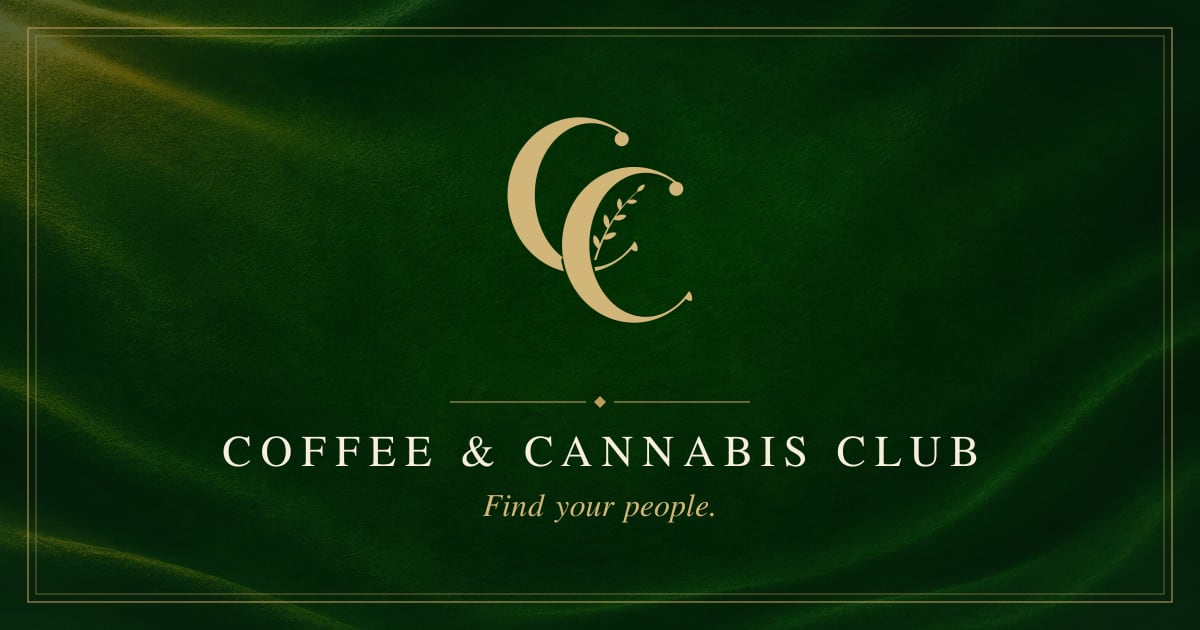
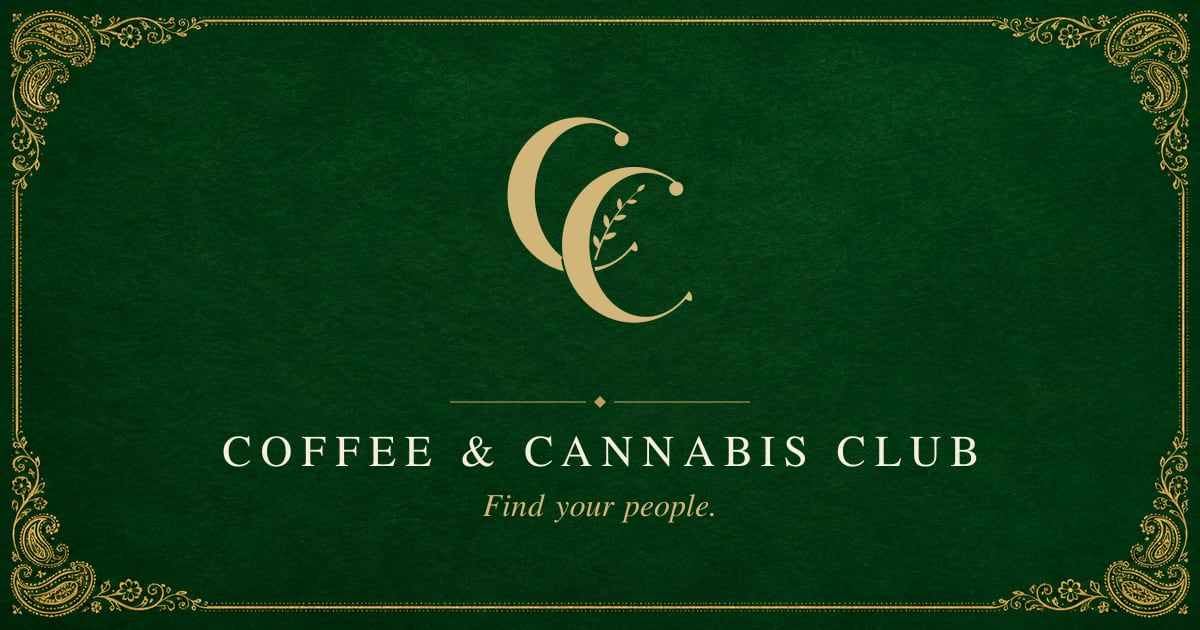
Use supplied og-share and paisley-border artwork
- og-share is now composed on the supplied paisley-cornered felt artwork
  (CC mark + tagline centered inside its frame) instead of the hero velvet.
- The supplied bandana frame is registered as paisley-border and turned into
  a gold-only alpha mask, layered behind the hero headline with a CSS fade-in.
  Site-wide paisley stays vector.
- Drop the unused event-frame / paisley-frame-square outputs.

Claude-Session: https://claude.ai/code/session_01WR9uogyGzpWmiRtCNUui49

diff --git a/src/components/sections/Hero.module.css b/src/components/sections/Hero.module.css
@@ -54,6 +54,28 @@
   rotate: 160deg;
 }
 
+/* ---- Bandana accent (supplied artwork, gold-tinted mask) ---- */
+.bandana {
+  position: absolute;
+  z-index: -1;
+  top: 50%;
+  left: 50%;
+  width: min(118vw, 92svh, 900px);
+  aspect-ratio: 1;
+  translate: -50% -48%;
+  background-color: var(--gold-300);
+  -webkit-mask: url("/assets/pattern/paisley-border-mask.png") center / contain no-repeat;
+  mask: url("/assets/pattern/paisley-border-mask.png") center / contain no-repeat;
+  opacity: 0.16;
+  pointer-events: none;
+}
+
+@media (min-width: 1024px) {
+  .bandana {
+    opacity: 0.2;
+  }
+}
+
 /* ---- Paisley frame ---- */
 .frame {
   --inset: clamp(0.75rem, 2.5vw, 2rem);
@@ -271,6 +293,9 @@
   .bg img {
     animation: hero-settle 2.4s var(--ease-out) both;
   }
+  .bandana {
+    animation: hero-bandana 2.8s var(--ease-out) 0.1s both;
+  }
   .rule {
     animation: hero-rule 1.6s var(--ease-in-out) 0.15s both;
   }
@@ -288,6 +313,13 @@
 @keyframes hero-settle {
   from {
     transform: scale(1.08);
+  }
+}
+
+@keyframes hero-bandana {
+  from {
+    opacity: 0;
+    transform: scale(0.92) rotate(-4deg);
   }
 }
 

diff --git a/src/lib/image-manifest.generated.ts b/src/lib/image-manifest.generated.ts
@@ -44,17 +44,10 @@ export const IMAGE_MANIFEST = {
     width: 1200,
     height: 630,
     blurDataURL:
[2 lines of base64/hex data omitted]
   },
-  "event-frame": {
-    src: "/assets/event-frame.jpg",
-    width: 1672,
-    height: 941,
-    blurDataURL:
[1 lines of base64/hex data omitted]
-  },
-  "paisley-frame-square": {
-    src: "/assets/paisley-frame-square.jpg",
+  "paisley-border": {
+    src: "/assets/paisley-border.jpg",
     width: 1254,
     height: 1254,
     blurDataURL:

diff --git a/src/components/sections/Hero.tsx b/src/components/sections/Hero.tsx
@@ -24,6 +24,9 @@ export function Hero({ next }: { next: PublicGathering | null }) {
         <PaisleyGlyph className={`${styles.glyphB} drift drift--slow`} />
       </div>
 
+      {/* Supplied bandana frame (manifest: paisley-border), tinted gold via mask. */}
+      <div className={styles.bandana} aria-hidden="true" />
+
       <div className={styles.frame} data-hero-frame aria-hidden="true">
         <span className={`${styles.rule} ${styles.ruleTop}`} data-hero-rule />
         <span className={`${styles.rule} ${styles.ruleBottom}`} data-hero-rule />

diff --git a/src/lib/images.ts b/src/lib/images.ts
@@ -24,8 +24,7 @@ export const IMAGE_NAMES = [
   "event-backdrop",
   "member-card",
   "og-share",
-  "event-frame",
-  "paisley-frame-square",
+  "paisley-border",
 ] as const;
 
 export type ImageName = (typeof IMAGE_NAMES)[number];

diff --git a/README.md b/README.md
@@ -59,7 +59,13 @@ run `npm run images`. Files there take precedence over the original uploads in t
 Manifest: `hero-field`, `texture-parchment`, `texture-green-grain`, `drink-green-goddess`,
 `drink-purp`, `drink-gold-drip`, `drink-pink-velvet`, `drink-green-mile`, `community-table`,
 `community-dj`, `community-arrival`, `community-hands`, `event-backdrop`, `member-card`,
-`og-share`. Missing images render as clearly labeled "Photo pending" placeholders.
+`og-share`, `paisley-border`. Missing images render as clearly labeled "Photo pending" placeholders.
+
+- `og-share`: a finished file at `/assets/og-share.*` is used as-is. Otherwise the supplied
+  paisley-cornered felt artwork (`og-frame`) gets the CC mark + "Find your people." composited on.
+- `paisley-border` (the supplied bandana frame) is turned into a gold-only mask
+  (`public/assets/pattern/paisley-border-mask.png`) used as the hero accent. The site-wide
+  paisley borders, dividers and corners stay vector (`src/components/paisley/`).
 Next/Image serves AVIF/WebP with responsive `srcset` automatically.
 
 To replace the logo, overwrite `public/assets/logo/cc-monogram.svg` (single color,
